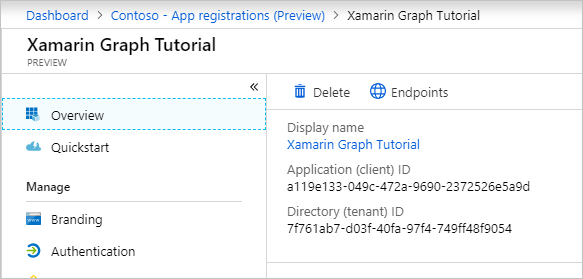
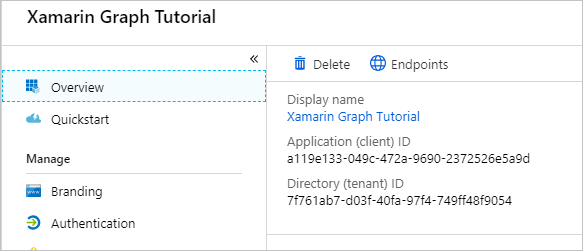
Removed preview from app registration

diff --git a/tutorial/register-app.md b/tutorial/register-app.md
@@ -4,7 +4,7 @@ In this exercise you will create a new Azure AD native application using the Azu
 
 1. Open a browser and navigate to the [Azure Active Directory admin center](https://aad.portal.azure.com) and login using a **personal account** (aka: Microsoft Account) or **Work or School Account**.
 
-1. Select **Azure Active Directory** in the left-hand navigation, then select **App registrations (Preview)** under **Manage**.
+1. Select **Azure Active Directory** in the left-hand navigation, then select **App registrations** under **Manage**.
 
     ![A screenshot of the App registrations ](./images/aad-portal-app-registrations.png)
 
